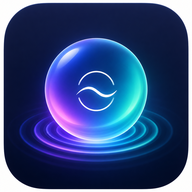
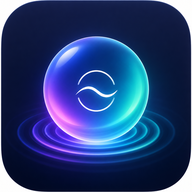
Add files via upload

diff --git a/index.html b/index.html
@@ -2367,6 +2367,25 @@ body.flow-mood-warning #availableTodayHero::before{
   animation:flowPaidPulse .45s cubic-bezier(.2,.9,.2,1);
 }
 
+
+/* === Dark icon edge cleanup === */
+
+.brand-icon,
+.splash-logo{
+  background-color:transparent !important;
+  box-shadow:
+    0 14px 34px rgba(0,122,255,.16),
+    0 0 0 1px rgba(255,255,255,.03) !important;
+  isolation:isolate !important;
+}
+
+[data-theme="dark"] .brand-icon,
+[data-theme="dark"] .splash-logo{
+  box-shadow:
+    0 18px 40px rgba(0,122,255,.18),
+    0 0 0 1px rgba(255,255,255,.02) !important;
+}
+
 </style>
 </head>
 
@@ -2459,6 +2478,8 @@ body.flow-mood-warning #availableTodayHero::before{
 
 <script src="https://accounts.google.com/gsi/client" async defer></script>
 <script>
+window.MONEY_PWA_VERSION="Flow v2.1 Dark Icon Fix";
+
 
 window.MONEY_PWA_VERSION = "Flow v2.1 Tier1";
 
@@ -3613,7 +3634,7 @@ document.addEventListener('DOMContentLoaded', function() {
 });
 
 
-const VERSION = "Flow v2.1 Tier1";
+const VERSION = "Flow v2.1 Icon Pack Fix";
 const DEFAULT_CLIENT_ID = "493978666690-351guk042764k40or99hppe1ehcb13aq.apps.googleusercontent.com";
 const DEFAULT_FILE_ID = "1kMyQoPLnKHq6nTMpVjpM5RbyHlt495DIWmIk1wpnUXw";
 const SCOPE = "https://www.googleapis.com/auth/spreadsheets";
@@ -4238,7 +4259,7 @@ window.addEventListener("load",()=>{
 });
 
 if("serviceWorker" in navigator){
-  window.addEventListener("load",()=>navigator.serviceWorker.register("service-worker.js?v=20260513-162754").catch(()=>{}));
+  window.addEventListener("load",()=>navigator.serviceWorker.register("service-worker.js?v=20260514-153053").catch(()=>{}));
 }
 
 wireStatic();

diff --git a/service-worker.js b/service-worker.js
@@ -1,4 +1,4 @@
-const CACHE = 'flow-tier1-20260513-163445';
+const CACHE = 'flow-ios-icons-fixed-20260514-153053';
 const SHELL = [
   './',
   './index.html',
